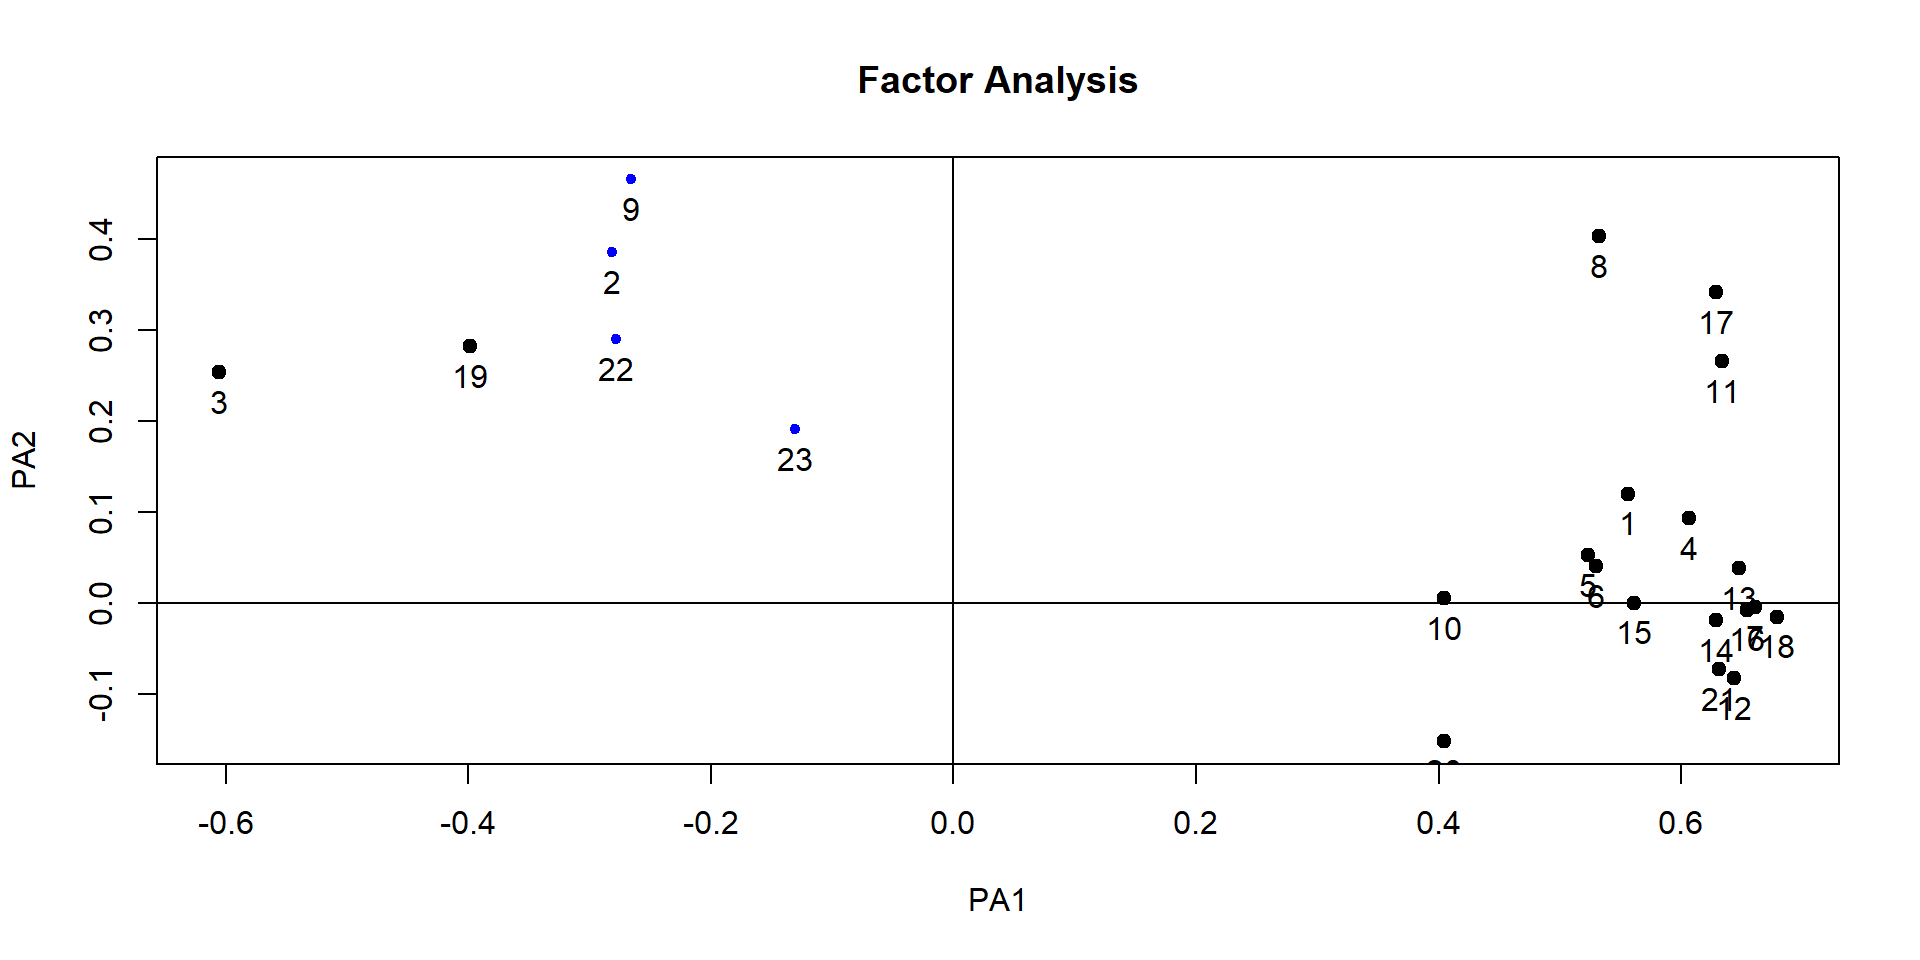
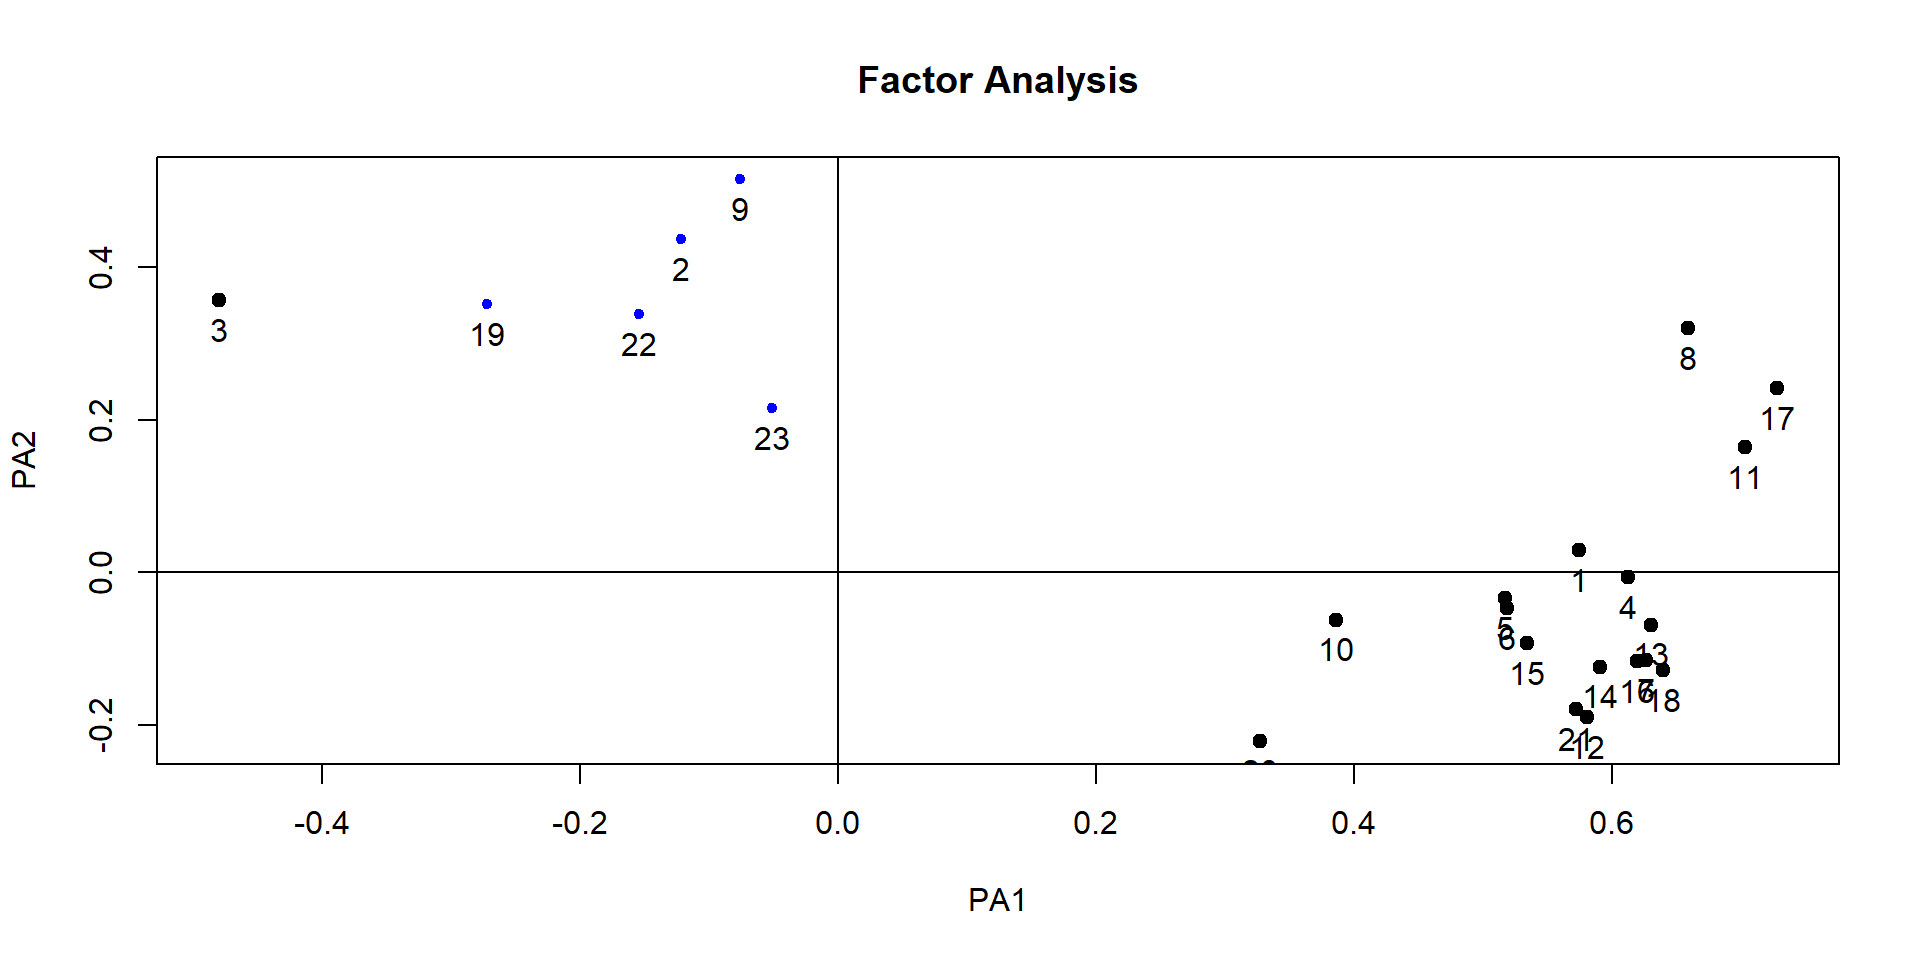
fixed practical fa

diff --git a/docs/slides/factorAnalysis-speaker.html b/docs/slides/factorAnalysis-speaker.html
@@ -973,19 +973,19 @@ Parallel analysis suggests that the number of factors =  6  and the number of co
 
  Eigen Values of 
   Original factors Resampled data Simulated data Original components
-1             6.64           0.21           0.20                7.29
+1             6.64           0.20           0.20                7.29
 2             0.91           0.15           0.15                1.74
 3             0.63           0.13           0.13                1.32
-4             0.48           0.12           0.11                1.23
+4             0.48           0.11           0.11                1.23
 5             0.29           0.10           0.10                0.99
-6             0.13           0.08           0.08                0.90
+6             0.13           0.08           0.09                0.90
   Resampled components Simulated components
-1                 1.18                 1.17
-2                 1.15                 1.14
-3                 1.13                 1.12
-4                 1.11                 1.10
+1                 1.17                 1.17
+2                 1.14                 1.14
+3                 1.12                 1.13
+4                 1.11                 1.11
 5                 1.09                 1.09
-6                 1.07                 1.07</code></pre>
+6                 1.08                 1.08</code></pre>
 </div>
 </div>
 </section>
@@ -1390,38 +1390,43 @@ Call: fa(r = raq, nfactors = 2, rotate = "oblimin", max.iter = 100,
     fm = "pa")
 Standardized loadings (pattern matrix) based upon correlation matrix
       PA1   PA2    h2   u2 com
-Q01  0.56  0.12 0.324 0.68 1.1
-Q02 -0.28  0.39 0.228 0.77 1.8
-Q03 -0.61  0.25 0.430 0.57 1.3
-Q04  0.61  0.09 0.377 0.62 1.0
-Q05  0.52  0.05 0.276 0.72 1.0
-Q06  0.53  0.04 0.282 0.72 1.0
-Q07  0.66 -0.01 0.437 0.56 1.0
-Q08  0.53  0.40 0.445 0.56 1.9
-Q09 -0.27  0.46 0.287 0.71 1.6
-Q10  0.40  0.00 0.163 0.84 1.0
-Q11  0.63  0.27 0.472 0.53 1.3
-Q12  0.64 -0.08 0.421 0.58 1.0
-Q13  0.65  0.04 0.421 0.58 1.0
-Q14  0.63 -0.02 0.396 0.60 1.0
-Q15  0.56  0.00 0.315 0.68 1.0
-Q16  0.65 -0.01 0.428 0.57 1.0
-Q17  0.63  0.34 0.511 0.49 1.5
-Q18  0.68 -0.02 0.461 0.54 1.0
-Q19 -0.40  0.28 0.238 0.76 1.8
-Q20  0.40 -0.15 0.187 0.81 1.3
-Q21  0.63 -0.07 0.403 0.60 1.0
-Q22 -0.28  0.29 0.161 0.84 2.0
-Q23 -0.13  0.19 0.053 0.95 1.8
+Q01  0.57  0.03 0.324 0.68 1.0
+Q02 -0.12  0.44 0.228 0.77 1.2
+Q03 -0.48  0.36 0.430 0.57 1.8
+Q04  0.61 -0.01 0.377 0.62 1.0
+Q05  0.52 -0.03 0.276 0.72 1.0
+Q06  0.52 -0.05 0.282 0.72 1.0
+Q07  0.63 -0.11 0.437 0.56 1.1
+Q08  0.66  0.32 0.445 0.56 1.4
+Q09 -0.08  0.51 0.287 0.71 1.0
+Q10  0.39 -0.06 0.163 0.84 1.1
+Q11  0.70  0.16 0.472 0.53 1.1
+Q12  0.58 -0.19 0.421 0.58 1.2
+Q13  0.63 -0.07 0.421 0.58 1.0
+Q14  0.59 -0.12 0.396 0.60 1.1
+Q15  0.53 -0.09 0.315 0.68 1.1
+Q16  0.62 -0.12 0.428 0.57 1.1
+Q17  0.73  0.24 0.511 0.49 1.2
+Q18  0.64 -0.13 0.461 0.54 1.1
+Q19 -0.27  0.35 0.238 0.76 1.9
+Q20  0.33 -0.22 0.187 0.81 1.8
+Q21  0.57 -0.18 0.403 0.60 1.2
+Q22 -0.15  0.34 0.161 0.84 1.4
+Q23 -0.05  0.21 0.053 0.95 1.1
 
                        PA1  PA2
-SS loadings           6.67 1.04
-Proportion Var        0.29 0.05
-Cumulative Var        0.29 0.34
-Proportion Explained  0.86 0.14
-Cumulative Proportion 0.86 1.00
+SS loadings           6.33 1.39
+Proportion Var        0.28 0.06
+Cumulative Var        0.28 0.34
+Proportion Explained  0.82 0.18
+Cumulative Proportion 0.82 1.00
 
-Mean item complexity =  1.3
+ With factor correlations of 
+      PA1   PA2
+PA1  1.00 -0.22
+PA2 -0.22  1.00
+
+Mean item complexity =  1.2
 Test of the hypothesis that 2 factors are sufficient.
 
 df null model =  253  with the objective function =  7.55 with Chi Square =  19334.49
@@ -1439,9 +1444,9 @@ BIC =  1522.12
 Fit based upon off diagonal values = 0.97
 Measures of factor score adequacy             
                                                    PA1  PA2
-Correlation of (regression) scores with factors   0.96 0.78
-Multiple R square of scores with factors          0.92 0.61
-Minimum correlation of possible factor scores     0.83 0.23</code></pre>
+Correlation of (regression) scores with factors   0.96 0.81
+Multiple R square of scores with factors          0.91 0.65
+Minimum correlation of possible factor scores     0.82 0.30</code></pre>
 </div>
 </div>
 </section>

diff --git a/docs/slides/factorAnalysis.html b/docs/slides/factorAnalysis.html
@@ -973,19 +973,19 @@ Parallel analysis suggests that the number of factors =  6  and the number of co
 
  Eigen Values of 
   Original factors Resampled data Simulated data Original components
-1             6.64           0.21           0.20                7.29
+1             6.64           0.20           0.20                7.29
 2             0.91           0.15           0.15                1.74
 3             0.63           0.13           0.13                1.32
-4             0.48           0.12           0.11                1.23
+4             0.48           0.11           0.11                1.23
 5             0.29           0.10           0.10                0.99
-6             0.13           0.08           0.08                0.90
+6             0.13           0.08           0.09                0.90
   Resampled components Simulated components
-1                 1.18                 1.17
-2                 1.15                 1.14
-3                 1.13                 1.12
-4                 1.11                 1.10
+1                 1.17                 1.17
+2                 1.14                 1.14
+3                 1.12                 1.13
+4                 1.11                 1.11
 5                 1.09                 1.09
-6                 1.07                 1.07</code></pre>
+6                 1.08                 1.08</code></pre>
 </div>
 </div>
 </section>
@@ -1390,38 +1390,43 @@ Call: fa(r = raq, nfactors = 2, rotate = "oblimin", max.iter = 100,
     fm = "pa")
 Standardized loadings (pattern matrix) based upon correlation matrix
       PA1   PA2    h2   u2 com
-Q01  0.56  0.12 0.324 0.68 1.1
-Q02 -0.28  0.39 0.228 0.77 1.8
-Q03 -0.61  0.25 0.430 0.57 1.3
-Q04  0.61  0.09 0.377 0.62 1.0
-Q05  0.52  0.05 0.276 0.72 1.0
-Q06  0.53  0.04 0.282 0.72 1.0
-Q07  0.66 -0.01 0.437 0.56 1.0
-Q08  0.53  0.40 0.445 0.56 1.9
-Q09 -0.27  0.46 0.287 0.71 1.6
-Q10  0.40  0.00 0.163 0.84 1.0
-Q11  0.63  0.27 0.472 0.53 1.3
-Q12  0.64 -0.08 0.421 0.58 1.0
-Q13  0.65  0.04 0.421 0.58 1.0
-Q14  0.63 -0.02 0.396 0.60 1.0
-Q15  0.56  0.00 0.315 0.68 1.0
-Q16  0.65 -0.01 0.428 0.57 1.0
-Q17  0.63  0.34 0.511 0.49 1.5
-Q18  0.68 -0.02 0.461 0.54 1.0
-Q19 -0.40  0.28 0.238 0.76 1.8
-Q20  0.40 -0.15 0.187 0.81 1.3
-Q21  0.63 -0.07 0.403 0.60 1.0
-Q22 -0.28  0.29 0.161 0.84 2.0
-Q23 -0.13  0.19 0.053 0.95 1.8
+Q01  0.57  0.03 0.324 0.68 1.0
+Q02 -0.12  0.44 0.228 0.77 1.2
+Q03 -0.48  0.36 0.430 0.57 1.8
+Q04  0.61 -0.01 0.377 0.62 1.0
+Q05  0.52 -0.03 0.276 0.72 1.0
+Q06  0.52 -0.05 0.282 0.72 1.0
+Q07  0.63 -0.11 0.437 0.56 1.1
+Q08  0.66  0.32 0.445 0.56 1.4
+Q09 -0.08  0.51 0.287 0.71 1.0
+Q10  0.39 -0.06 0.163 0.84 1.1
+Q11  0.70  0.16 0.472 0.53 1.1
+Q12  0.58 -0.19 0.421 0.58 1.2
+Q13  0.63 -0.07 0.421 0.58 1.0
+Q14  0.59 -0.12 0.396 0.60 1.1
+Q15  0.53 -0.09 0.315 0.68 1.1
+Q16  0.62 -0.12 0.428 0.57 1.1
+Q17  0.73  0.24 0.511 0.49 1.2
+Q18  0.64 -0.13 0.461 0.54 1.1
+Q19 -0.27  0.35 0.238 0.76 1.9
+Q20  0.33 -0.22 0.187 0.81 1.8
+Q21  0.57 -0.18 0.403 0.60 1.2
+Q22 -0.15  0.34 0.161 0.84 1.4
+Q23 -0.05  0.21 0.053 0.95 1.1
 
                        PA1  PA2
-SS loadings           6.67 1.04
-Proportion Var        0.29 0.05
-Cumulative Var        0.29 0.34
-Proportion Explained  0.86 0.14
-Cumulative Proportion 0.86 1.00
+SS loadings           6.33 1.39
+Proportion Var        0.28 0.06
+Cumulative Var        0.28 0.34
+Proportion Explained  0.82 0.18
+Cumulative Proportion 0.82 1.00
 
-Mean item complexity =  1.3
+ With factor correlations of 
+      PA1   PA2
+PA1  1.00 -0.22
+PA2 -0.22  1.00
+
+Mean item complexity =  1.2
 Test of the hypothesis that 2 factors are sufficient.
 
 df null model =  253  with the objective function =  7.55 with Chi Square =  19334.49
@@ -1439,9 +1444,9 @@ BIC =  1522.12
 Fit based upon off diagonal values = 0.97
 Measures of factor score adequacy             
                                                    PA1  PA2
-Correlation of (regression) scores with factors   0.96 0.78
-Multiple R square of scores with factors          0.92 0.61
-Minimum correlation of possible factor scores     0.83 0.23</code></pre>
+Correlation of (regression) scores with factors   0.96 0.81
+Multiple R square of scores with factors          0.91 0.65
+Minimum correlation of possible factor scores     0.82 0.30</code></pre>
 </div>
 </div>
 </section>

diff --git a/docs/practicals/factorAnalysis.html b/docs/practicals/factorAnalysis.html
@@ -338,6 +338,7 @@ Task 1: Load the data
 <div class="cell" data-layout-align="center">
 <div class="sourceCode cell-code" id="cb1"><pre class="sourceCode r code-with-copy"><code class="sourceCode r"><span id="cb1-1"><a href="#cb1-1" aria-hidden="true" tabindex="-1"></a> <span class="fu">data</span>(<span class="st">"bfi"</span>)</span></code><button title="Copy to Clipboard" class="code-copy-button"><i class="bi"></i></button></pre></div>
 </div>
+<p>The data will be loaded into the environment tab as a temporary file. You need to click on it to make use of it in your code.</p>
 </div>
 </div>
 <div class="callout callout-style-default callout-note callout-titled">
@@ -357,7 +358,7 @@ Task 2: Filter the data
 <dl class="code-annotation-container-grid">
 <dt data-target-cell="annotated-cell-1" data-target-annotation="1">1</dt>
 <dd>
-<span data-code-lines="1" data-code-annotation="1" data-code-cell="annotated-cell-1">The code above creates a new data frame called bfidata that contains only the columns we are interested in (1:25) and removes any rows with missing data (na.omit())</span>
+<span data-code-cell="annotated-cell-1" data-code-annotation="1" data-code-lines="1">The code above creates a new data frame called bfidata that contains only the columns we are interested in (1:25) and removes any rows with missing data (na.omit())</span>
 </dd>
 </dl>
 </div>
